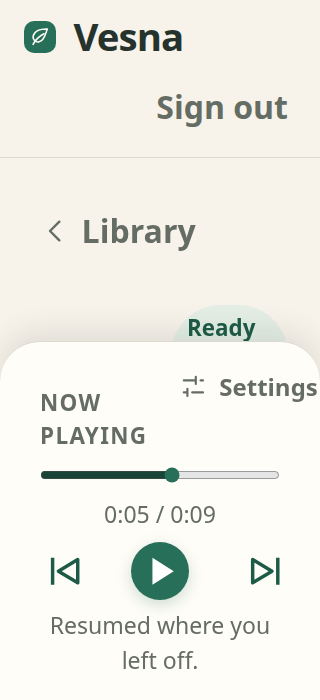
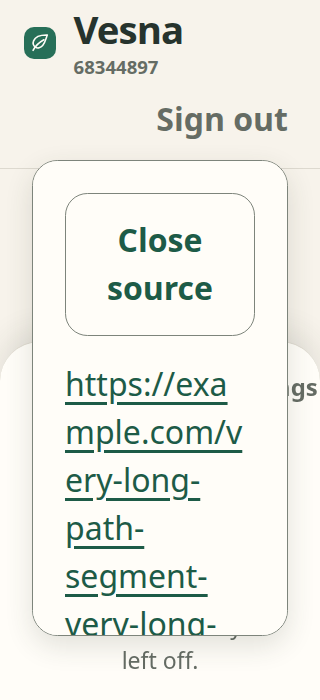
Record final M4 source panel verification

diff --git a/evidence/practical-mobile-interface/result.md b/evidence/practical-mobile-interface/result.md
@@ -5,8 +5,8 @@ Status: **pass — M4 practical mobile interface is complete and ready to merge*
 ## Test identity
 
 - Spec commit: `9adfc43`
-- Final implementation commit: `68344897f03e047c3be0480fb65b30062fc2f60a`
-- Visible target-phone build: `68344897`
+- Final implementation commit: `54b5c7a2bf09aace3b56acc54eb81df72e818fd9`
+- Visible target-phone build: `54b5c7a2`
 - Comourat commit: `c9bfb1604a5286d073aaceef1513e0d7496d0e33`
 - Python: `3.12.3`
 - Node: `26.8.1`
@@ -15,7 +15,7 @@ Status: **pass — M4 practical mobile interface is complete and ready to merge*
 - FFmpeg: `6.1.1-3ubuntu5`
 - TTS: `piper-tts==1.8.0`, `onnxruntime==1.31.1`
 - Voice: `en_US-joe-medium`, revision `cf910fb59f1d79ab3b625a63993a108751c6c25d`
-- Hosted CI: pass, run `43449954601` at head `6834489`
+- Hosted CI: pass, run `43457717604` at head `54b5c7a`
 - Phone: `Android 12; LMR-LX9 Build/HUAWEILMR-L29; 31; REL`, Chrome `138.0.7204.157`
 - Application origin: `https://record-candidates-img-hwy.trycloudflare.com`
 - Isolated probe origin and build: `https://zip-shortly-str-robertson.trycloudflare.com`, `2026-11-13-m4-r10`
@@ -30,7 +30,7 @@ Additional versions and public configuration are in `environment.json`. Credenti
 | AC2 Library and status presentation | pass | Fixtures cover every preparation state, concise messages, refresh behavior, and focus preservation, including Retry-to-Open fallback. Live polling preserved focus, source disclosure, and a nonzero reading position. |
 | AC3 Reader, source inspection, and deletion interaction | pass | Source details load on demand and remain inert. Cancel and Escape preserved active playback and focus. Confirmed deletion stopped playback, cleared state, removed the item, and denied its source/audio. Held library, item, source, and prepared responses could not restore deleted content. |
 | AC4 Bottom playback bar and preserved playback | pass | Real Chromium verified one visible control set, direct seek, play/pause, previous/next/selected paragraphs, speed, actual auto-scroll, saved position and speed, a one-second highlight bound, and no scrolling-triggered audio requests. The user confirmed the A → B → restored A highlight regression is fixed. |
-| AC5 Responsive design and accessibility | pass | Static contrast checks and browser geometry covered phone, desktop, 320px, long content, and 200% text scaling. All visible primary targets measured at least 44px. Focus, reduced motion, non-live time, and A1 icon hash checks passed. |
+| AC5 Responsive design and accessibility | pass | Static contrast checks and browser geometry covered phone, desktop, 320px, long content, and 200% text scaling. Open Source panel bounds are inside every tested viewport. All visible primary targets measured at least 44px. Focus, reduced motion, non-live time, A1 icon hashes, and sign-in/failure screenshots passed. |
 | AC6 Regression, deletion safety, security, and maintainability | pass | 184 Python and 146 JavaScript tests pass. Backend tests cover every preparation state and required deletion race. Browser tests cover authentication termination, old-session responses, lost responses, stale reads, and navigation races. No private response was cached. Independent implementation reviews found no remaining substantive issues. |
 | AC7 Live browser and target-phone verification | pass | Expanded Chromium 141 checks pass. The target phone passed both input workflows, playback, background/locked-screen behavior, deletion, sign-out, and visual acceptance. The isolated probe passed update preservation and a 30-minute offline locked-screen run at 17:50–18:20 on 2026-11-13. |
 | AC8 Evidence and milestone decision | pass | This directory contains exact identities, automated and live results, reproduction instructions, sanitized screenshots, CI results, and target-phone observations. AC1–AC7 pass. |
@@ -40,7 +40,7 @@ Additional versions and public configuration are in `environment.json`. Credenti
 - `automated-python.txt`: **184 passed, 0 failed**.
 - `automated-javascript.txt`: **146 passed, 0 failed**, plus syntax checks.
 - Locked installation completed with `vesna==0.4.0` and the pinned comourat commit.
-- Hosted CI run `43449954601` at `6834489`: **pass**, with 184 Python application tests, 619 comourat tests, and 146 JavaScript tests.
+- Hosted CI run `43457717604` at `54b5c7a`: **pass**, with 184 Python application tests, 619 comourat tests, and 146 JavaScript tests.
 
 ## Live browser results
 
@@ -50,7 +50,7 @@ The A → B → restored A playback scenario is included as `article_to_item_to_
 
 ## Target-phone results
 
-`device-results.md` records the passing M4 application procedure, the corrected highlight and shell-update regressions, final visible build `68344897`, unchanged Android/Chrome versions, and the successful 17:50–18:20 offline locked-screen probe run on build `2026-11-13-m4-r10`.
+`device-results.md` records the passing M4 application procedure, the corrected highlight, shell-update, and Source-panel regressions, final visible build `54b5c7a2`, unchanged Android/Chrome versions, and the successful 17:50–18:20 offline locked-screen probe run on build `2026-11-13-m4-r10`. The user explicitly confirmed the corrected Source panel on the phone.
 
 ## Milestone decision
 

diff --git a/evidence/practical-mobile-interface/device-results.md b/evidence/practical-mobile-interface/device-results.md
@@ -2,7 +2,7 @@
 
 Status: **pass**
 
-Check date: **2026-11-13**.
+Check dates: **2026-11-13 and 2026-11-14**.
 
 ## Device identity
 
@@ -11,7 +11,7 @@ Check date: **2026-11-13**.
 - Chrome: `138.0.7204.157`
 - The user confirmed that the operating-system and Chrome versions are unchanged from the previous recorded run.
 - M4 application origin: `https://record-candidates-img-hwy.trycloudflare.com`
-- Final visible build identity: `68344897`
+- Final visible build identity: `54b5c7a2`
 - Isolated probe origin: `https://zip-shortly-str-robertson.trycloudflare.com`
 - Final isolated probe build: `2026-11-13-m4-r10`
 
@@ -28,6 +28,10 @@ The reader passed bottom-bar visibility during scrolling, final-paragraph access
 The user initially found that the highlight disappeared after playing item A, playing item B, and returning to item A with a saved position. Audio continued at `0:04/0:09`, and paragraph controls did not restore the highlight. The cause was stale playback controllers remaining subscribed to the shared audio element after item changes.
 
 The implementation now destroys playback and seekbar controllers during teardown. Deterministic lifecycle tests and live Chromium cover the exact A → B → restored A path. The user confirmed that the final build displays `68344897` and that the same procedure now passes.
+
+### Source-panel correction and confirmation
+
+An independent acceptance review found that the original absolute-positioned Source panel could extend past the left viewport edge. The panel is now viewport-contained, scrollable, and has an explicit **Close source** action. Browser geometry checks pass at representative phone width, 320px, long-content fixtures, and 200% text scaling. On 2026-11-14, the user confirmed build `54b5c7a2` and verified on the target phone that source text is fully visible and the panel closes correctly.
 
 ### Shell-update diagnosis and correction
 
